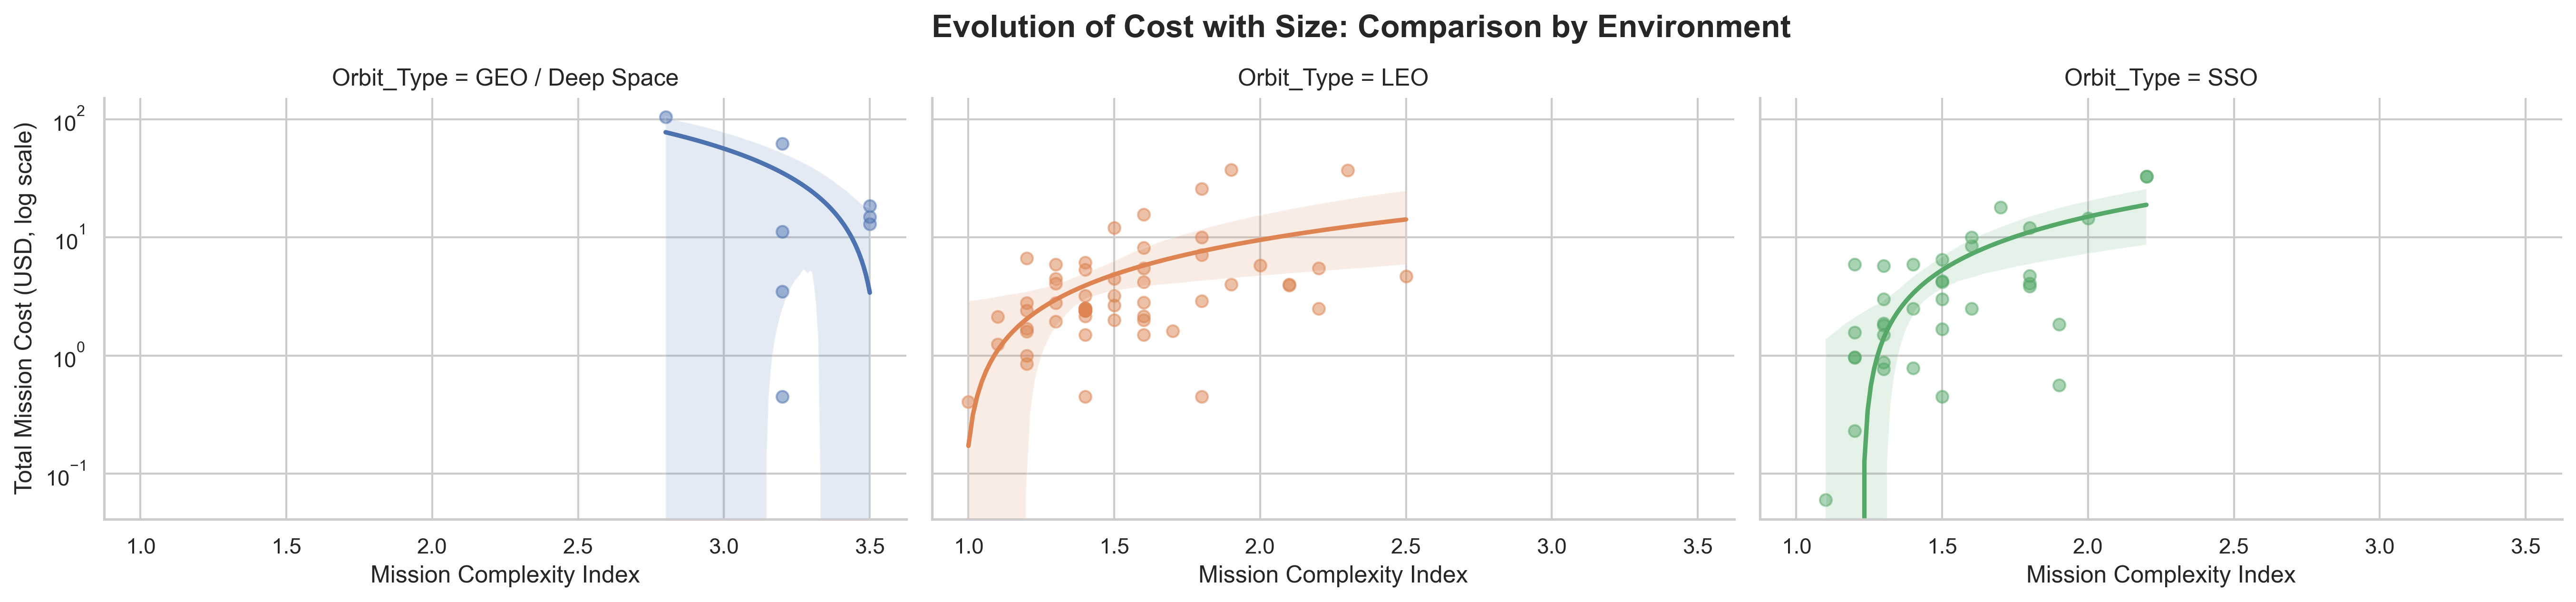
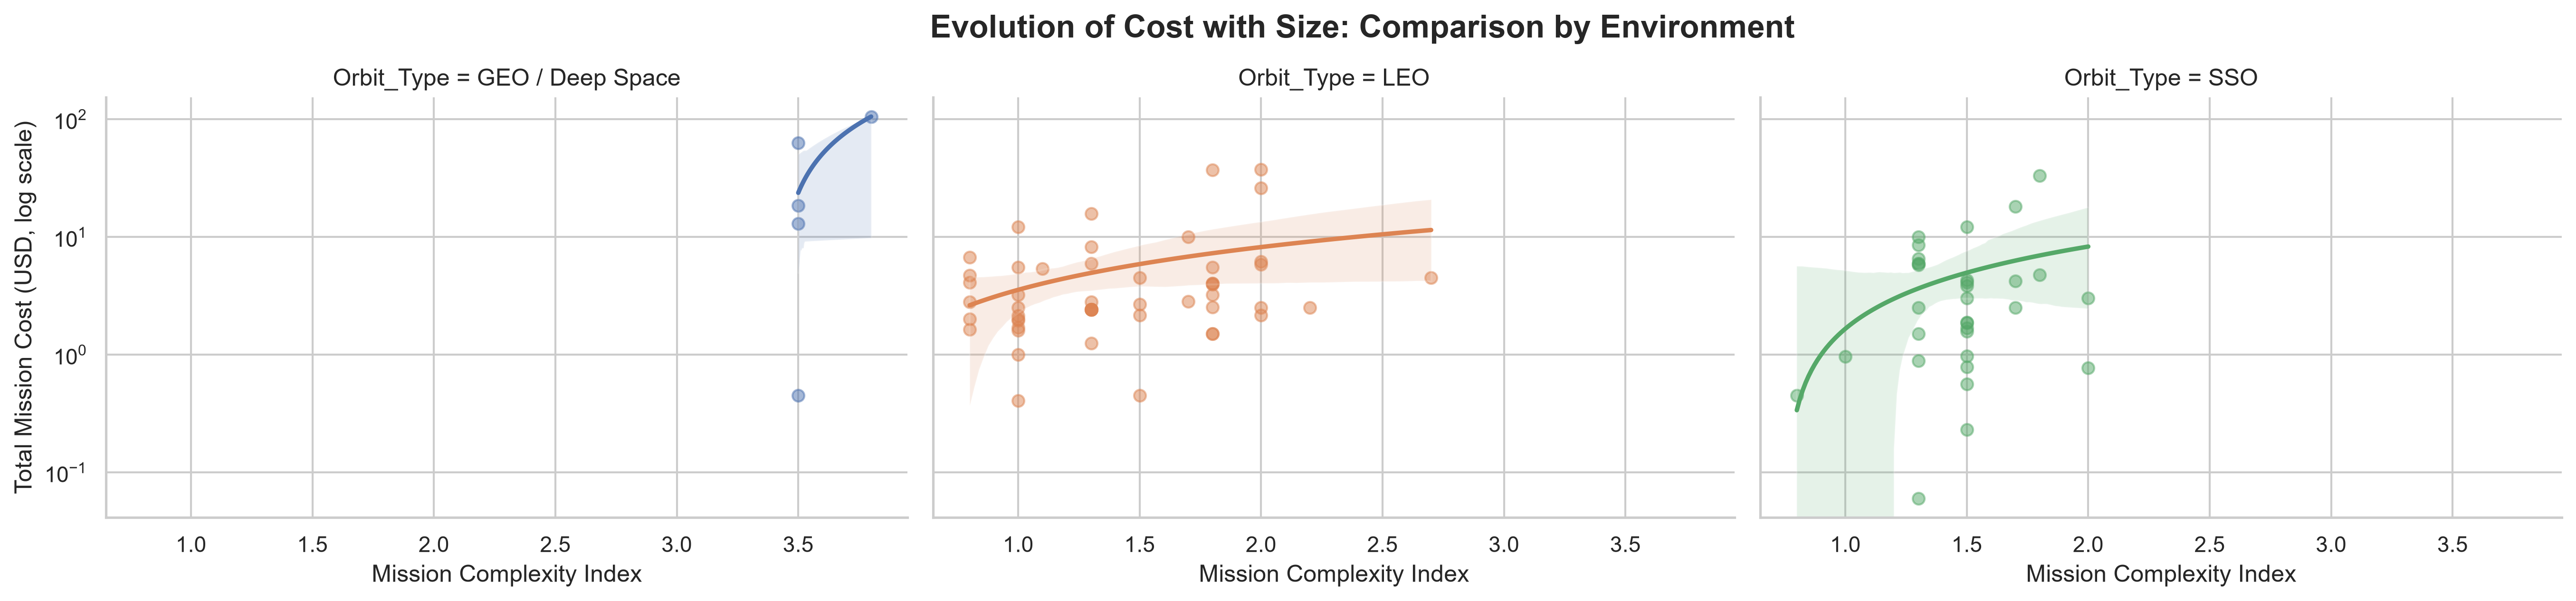
readme ok with references lack update fig

diff --git a/readme.md b/readme.md
@@ -9,6 +9,28 @@
 
 ---
 
+## 📌 Table of Contents
+* [🧭 1. Project Overview](#-1-project-overview)
+* [🎯 2. Objective](#-2-objective)
+* [🛰️ 3. Dataset Construction](#%EF%B8%8F-3-dataset-construction)
+* [📈 4. Exploratory Data Analysis](#-4-exploratory-data-analysis)
+* [🧠 5. Model Description](#-5-model-description)
+* [⚙️ 6. Model Inputs](#%EF%B8%8F-6-model-inputs)
+* [📊 7. Parameter Analysis](#-7-parameter-analysis)
+* [🌍 8. Role of Orbit](#-8-role-of-orbit)
+* [📉 9. Predictive Behavior](#-9-predictive-behavior)
+* [💰 10. Decision Scenario: 5M$ Budget](#-10-decision-scenario-5m-budget)
+* [📏 11. Model Validation](#-11-model-validation)
+* [📌 12. Key Insights](#-12-key-insights)
+* [⚠️ 13. Limitations](#%EF%B8%8F-13-limitations)
+* [🚀 14. Perspectives](#-14-perspectives)
+* [🔗 15. Reproducibility](#-15-reproducibility)
+* [🧩 16. Additional Visualizations](#-16-additional-visualizations)
+* [📚 17. References](#-17-references)
+* [📬 Contact](#-contact)
+
+---
+
 ## 🧭 1. Project Overview
 
 CubeSat missions exhibit significant cost variability, ranging from less than 0.1M$ to over 100M$.  
@@ -35,7 +57,7 @@ To address this, a **Bayesian log-normal regression model** is developed and use
 
 ## 🛰️ 3. Dataset Construction
 
-A dataset of approximately **~100 CubeSat missions** was manually constructed using public sources.
+A dataset of approximately **~90 CubeSat missions** was manually constructed using public sources.
 
 ### 📊 Features included ans used in the model:
 - **Platform size** (1U to 16U)
@@ -50,13 +72,31 @@ A dataset of approximately **~100 CubeSat missions** was manually constructed us
 - Handling missing values
 - Manual curation of mission characteristics
 
-### 📌 Notes:
+### 📌 Note:
 - GEO and Deep Space missions were grouped due to limited data and similar cost structures
-- A **complexity index** was defined to approximate technological difficulty:
-  - Tech demo → ~1.2  
-  - Earth observation → ~1.5  
-  - Science → ~2.0–2.3  
-  - Deep Space → >3  
+
+### ⚙️ Complexity Index: `calculate_clean_complexity(row)`
+**File location:** `src/dataset_cleaner.py`  
+**Objective:** Computes a standardized numerical complexity score (starting at `1.0`) based on payload objectives and institutional overhead.
+
+#### 1. Payload & Mission Type Bonus
+The script checks the `Mission_Type` string and adds a fixed modifier to the baseline score:
+* **Technology Demo:** `+0.0`
+* **Communications:** `+0.3`
+* **Earth Observation:** `+0.5`
+* **Military/Defense:** `+0.7`
+* **Science/Astronomy:** `+1.0`
+* **Deep Space / GEO:** `+2.0` *(grouped due to similar radiation/shielding constraints and sparse data)*
+
+#### 2. Institutional & Manufacturing Adjustments
+The script scans `Organization` and `Manufactured (AIVT) by` to adjust for quality assurance overhead and labor costs:
+
+* **Space Agencies & Military** (`nasa`, `esa`, `cnes`, `darpa`, `dlr`, `air force`, `defence`):
+  * `+0.7` if combined with a "Science/Astronomy" mission.
+  * `+0.5` for any other mission type.
+* **Academic Institutions** (`university`, `ecole`, `politecnico`, `college`, `instit`, `in-house`):
+  * `-0.2` discount due to educational free labor and reduced documentation.
+  * **Exception:** The `-0.2` discount is **canceled** if the platform is outsourced to a commercial turnkey manufacturer (`gomspace`, `clyde`, `nanoavionics`).
 
 ---
 
@@ -120,7 +160,7 @@ $\ln(\text{Cost}) = \alpha_{\text{orbit}} + \beta_{\text{size}} \cdot \text{Size
 
 👉 Example:
 
-> +1 level of complexity → cost ×2.5 (on average)
+> +1 level of complexity → cost ×2.0 (on average)
 
 ---
 
@@ -169,10 +209,10 @@ A practical case study was conducted using a fixed budget of **5M$**.
 
 | Mission Type        | Orbit              | Estimated Cost (M$) | Feasible |
 |--------------------|-------------------|---------------------|----------|
-| Tech Demo (1.2)    | LEO               | 0.92 - 7.10           | ✅ Yes   |
-| Earth Obs (1.5)    | SSO               | 1.10 - 8.50           | ⚠️ Limited |
-| Science (2.2)      | GEO / Deep Space  | 1.47 - 11.37           | ❌ No    |
-| Deep Space (3.2+)  | GEO / Deep Space  | 3.68 - 28.32           | ❌ No    |
+| Tech Demo (1.2)    | LEO               | 1.15 - 8.62          | ✅ Yes   |
+| Earth Obs (1.5)    | SSO               | 1.58 - 11.85           | ⚠️ Limited |
+| Science (2.2)      | GEO / Deep Space  | 1.96 - 14.76           | ❌ No    |
+| Deep Space (3.2+)  | GEO / Deep Space  | 5.12 - 38.51           | ❌ No    |
 
 👉 Interpretation:
 - Low-complexity missions are feasible under tight budgets  
@@ -188,7 +228,7 @@ To evaluate the reliability of the probabilistic predictions, we measure how man
 
 Using a ±2σ interval (≈95% confidence for a log-normal distribution):
 
-> **97.8% of observed mission costs fall within predicted bounds**
+> **97.6% of observed mission costs fall within predicted bounds**
 
 👉 Interpretation:
 - The model provides **realistic uncertainty estimates**
@@ -217,7 +257,7 @@ as the objective is not only predictive accuracy but also **uncertainty quantifi
 
 ### 🔹 Key takeaway
 
-The model should be interpreted as a:
+This model should be interpreted as a:
 
 > **Decision-support tool with calibrated uncertainty**,  
 rather than a precise cost prediction system.
@@ -234,7 +274,7 @@ rather than a precise cost prediction system.
 
 ## ⚠️ 13. Limitations
 
-- Limited dataset (~100 missions)  
+- Limited dataset (~90 missions)  
 - Few Deep Space observations  
 - Complexity is a **constructed proxy**  
 - Simplified model (no subsystem-level detail)  
@@ -262,21 +302,7 @@ All data, code, and analysis are available in this repository.
 
 ---
 
-## 📚 16. References
-
-European Space Agency. (2023). *CubeSat missions and cost analysis*. ESA Publications.
-
-Centre National d'Études Spatiales. (2022). *Nano-satellite mission reports*. CNES.
-
-Swartwout, M. (2013). The first one hundred CubeSats: A statistical look. *Journal of Small Satellites*, 2(2), 213–233.
-
-NASA. (2020). *Small spacecraft cost estimation handbook*. NASA Technical Reports.
-
-Kulu, Erik. « CubeSat Tables ». Nanosats Database, https://www.nanosats.eu/tables.html. Accessed on April 23, 2026.
-
----
-
-## 🧩 17. Additional Visualizations
+## 🧩 16. Additional Visualizations
 
 | Visualization | Description |
 |--------------|------------|
@@ -289,6 +315,20 @@ Kulu, Erik. « CubeSat Tables ». Nanosats Database, https://www.nanosats.eu/t
 
 👉 These visualizations are not included in the poster for clarity,  
 but provide deeper insight into model performance and limitations.
+
+---
+
+## 📚 17. References
+
+European Space Agency. (2023). *CubeSat missions and engineering support*. [ESA Technology Publications](https://www.esa.int/Enabling_Support/Space_Engineering_Technology/CubeSats).
+
+Centre National d'Études Spatiales. (2022). *Nano-satellite and small mission engineering*. [CNES Technologie by Nanolab Academy](https://cnes.fr/projets/nanolab-academy/plateforme-seed-projets).
+
+Swartwout, M. (2014). The first one hundred CubeSats: A statistical look. *Proceedings of the AIAA/USU Conference on Small Satellites*. [Direct Access PDF](https://jossonline.com/storage/2021/08/0202-Swartwout-The-First-One-Hundred-Cubesats.pdf).
+
+NASA, JPL, California Institute of Technology. (2020). *NASA and Smallsat Cost Estimation Overview and Model Tools*. NASA Technical Reports Server. [Direct Access Document](https://www.nasa.gov/wp-content/uploads/2020/05/saing_nasa_and_smallsat_cost_estimation_overview_and_model_tools_s3vi_webinar_series_10_jun_2020.pdf).
+
+Kulu, Erik. « CubeSat Tables ». Nanosats Database, https://www.nanosats.eu/tables.html. Accessed on April 23, 2026.
 
 ---
 